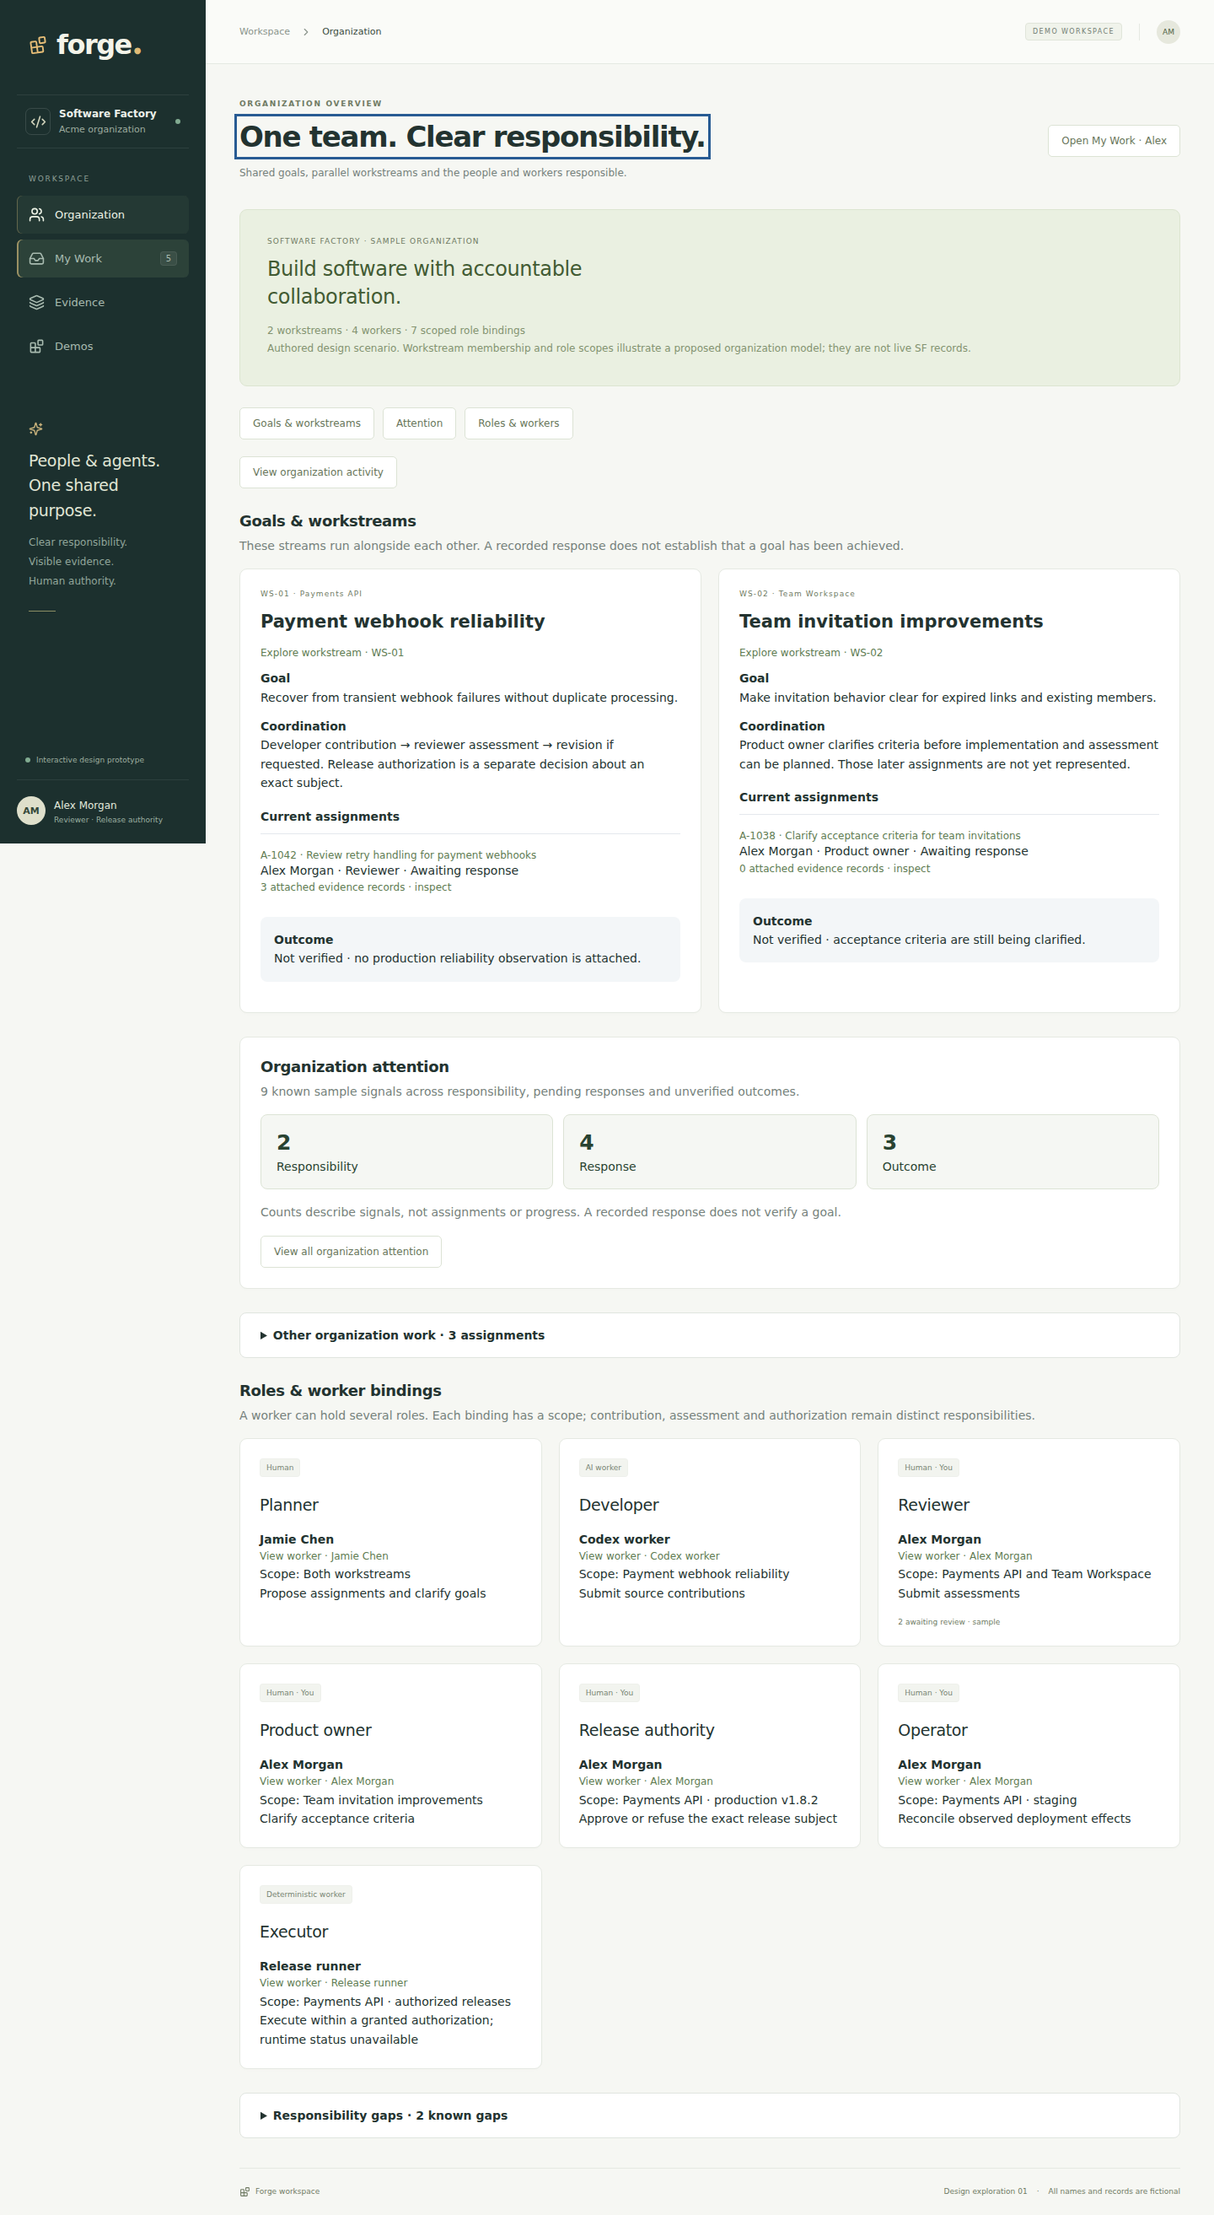
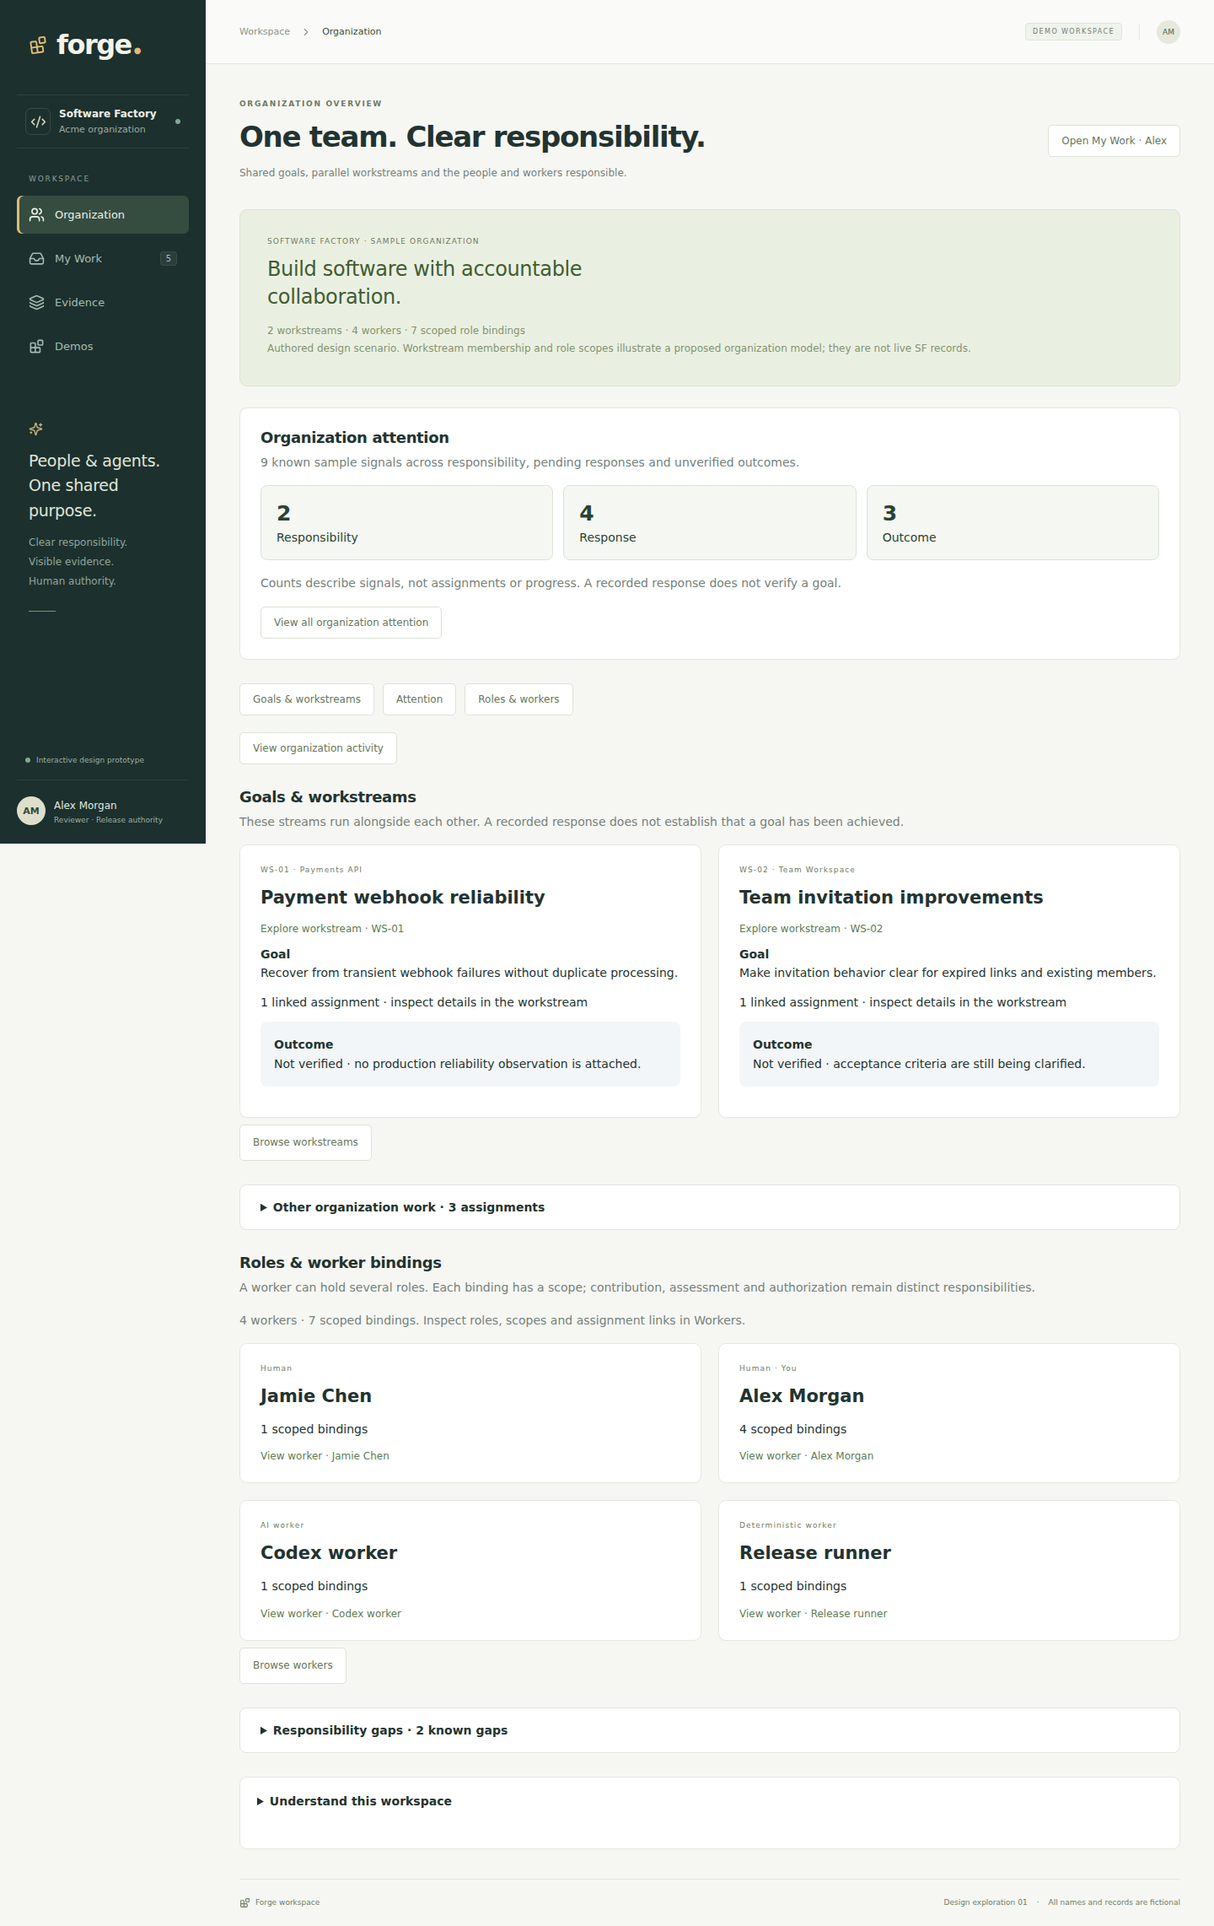
Prioritize attention and compact organization overview

diff --git a/ui-design/src/OrganizationOverview.tsx b/ui-design/src/OrganizationOverview.tsx
@@ -4,7 +4,6 @@ import { AttentionSummary } from "./AttentionSummary";
 import type { AttentionCategory } from "./data/organizationAttention";
 import { responsibilityGaps } from "./data/workerDetails";
 import { assignments } from "./data/assignments";
-import { evidenceFor } from "./data/evidence";
 import {
   roleBindings,
   workers,
@@ -62,8 +61,8 @@ export function OrganizationOverview({
           </span>
           <h2>Build software with accountable collaboration.</h2>
           <p>
-            2 workstreams · {workers.length} workers · {roleBindings.length}{" "}
-            scoped role bindings
+            {workstreams.length} workstreams · {workers.length} workers ·{" "}
+            {roleBindings.length} scoped role bindings
           </p>
           <p>
             Authored design scenario. Workstream membership and role scopes
@@ -72,7 +71,11 @@ export function OrganizationOverview({
           </p>
         </div>
       </div>
-      <WorkspaceGuide />
+      <AttentionSummary
+        completed={completed}
+        readiness={readiness}
+        onOpen={onAttention}
+      />
       <nav className="organization-sections" aria-label="Organization sections">
         {[
           ["org-goals", "Goals & workstreams"],
@@ -93,12 +96,6 @@ export function OrganizationOverview({
         ))}
       </nav>
       <p className="org-overview-section">
-        <button className="button secondary" onClick={onWorkersDirectory}>
-          Browse workers
-        </button>{" "}
-        <button className="button secondary" onClick={onDirectory}>
-          Browse workstreams
-        </button>{" "}
         <button className="button secondary" onClick={onActivity}>
           View organization activity
         </button>
@@ -137,38 +134,9 @@ export function OrganizationOverview({
                 {stream.goal}
               </p>
               <p>
-                <strong>Coordination</strong>
-                <br />
-                {stream.coordination}
+                {stream.assignmentIds.length} linked assignment · inspect
+                details in the workstream
               </p>
-              <h4>Current assignments</h4>
-              {stream.assignmentIds.map((id) => {
-                const assignment = assignments.find((a) => a.id === id);
-                if (!assignment) return null;
-                const evidenceCount = evidenceFor(id).length;
-                return (
-                  <div className="org-stream-assignment" key={id}>
-                    <button
-                      className="text-link"
-                      onClick={() => onOpen(assignment)}
-                    >
-                      {id} · {assignment.title}
-                    </button>
-                    <p>
-                      {assignment.owner} · {assignment.role} ·{" "}
-                      {completed[id]
-                        ? "Local response recorded"
-                        : "Awaiting response"}
-                    </p>
-                    <button
-                      className="text-link"
-                      onClick={() => onOpen(assignment, "Evidence")}
-                    >
-                      {evidenceCount} attached evidence records · inspect
-                    </button>
-                  </div>
-                );
-              })}
               <p className="org-outcome">
                 <strong>Outcome</strong>
                 <br />
@@ -177,12 +145,12 @@ export function OrganizationOverview({
             </article>
           ))}
         </div>
+        <p>
+          <button className="button secondary" onClick={onDirectory}>
+            Browse workstreams
+          </button>
+        </p>
       </section>
-      <AttentionSummary
-        completed={completed}
-        readiness={readiness}
-        onOpen={onAttention}
-      />
       <details className="organization-disclosure org-overview-section">
         <summary>Other organization work · 3 assignments</summary>
         <section
@@ -232,41 +200,38 @@ export function OrganizationOverview({
           contribution, assessment and authorization remain distinct
           responsibilities.
         </p>
-        <div className="role-grid">
-          {roleBindings.map((binding) => {
-            const worker = workers.find((w) => w.id === binding.workerId)!;
-            return (
-              <article
-                className="panel role-card"
-                key={`${binding.workerId}-${binding.role}`}
-              >
-                <span className="badge neutral">{worker.type}</span>
-                <h2>{binding.role}</h2>
-                <strong>{worker.name}</strong>
-                <p>
-                  <button
-                    className="text-link"
-                    onClick={() => onWorker(worker.id)}
-                  >
-                    View worker · {worker.name}
-                  </button>
-                </p>
-                <p>Scope: {binding.scope}</p>
-                <p>{binding.permission}</p>
-                {binding.role === "Reviewer" && (
-                  <span className="role-count">
-                    {
-                      assignments.filter(
-                        (a) => a.kind === "Assessment" && !completed[a.id],
-                      ).length
-                    }{" "}
-                    awaiting review · sample
-                  </span>
-                )}
-              </article>
-            );
-          })}
+        <p>
+          {workers.length} workers · {roleBindings.length} scoped bindings.
+          Inspect roles, scopes and assignment links in Workers.
+        </p>
+        <div className="org-stream-grid overview-workers">
+          {workers.map((worker) => (
+            <article
+              className="panel org-stream"
+              key={worker.id}
+              aria-label={worker.name}
+            >
+              <span className="section-label">{worker.type}</span>
+              <h3>{worker.name}</h3>
+              <p>
+                {
+                  roleBindings.filter(
+                    (binding) => binding.workerId === worker.id,
+                  ).length
+                }{" "}
+                scoped bindings
+              </p>
+              <button className="text-link" onClick={() => onWorker(worker.id)}>
+                View worker · {worker.name}
+              </button>
+            </article>
+          ))}
         </div>
+        <p>
+          <button className="button secondary" onClick={onWorkersDirectory}>
+            Browse workers
+          </button>
+        </p>
       </section>
       <details className="organization-disclosure org-overview-section">
         <summary>Responsibility gaps · 2 known gaps</summary>
@@ -304,6 +269,7 @@ export function OrganizationOverview({
           ))}
         </section>
       </details>
+      <WorkspaceGuide />
     </>
   );
 }

diff --git a/ui-design/tests/workspace.spec.ts b/ui-design/tests/workspace.spec.ts
@@ -1824,20 +1824,33 @@ test("Organization is the default entry with scoped workers and independent goal
     name: "Organization workstreams",
   });
   await expect(streams.getByRole("article")).toHaveCount(2);
+  expect(
+    await page.evaluate(() => {
+      const attention = document.getElementById("org-attention")!;
+      const goals = document.getElementById("org-goals")!;
+      return Boolean(
+        attention.compareDocumentPosition(goals) &
+        Node.DOCUMENT_POSITION_FOLLOWING,
+      );
+    }),
+  ).toBe(true);
+  await expect(
+    streams.getByText("Current assignments", { exact: true }),
+  ).toHaveCount(0);
   await expect(
     page
       .getByRole("region", { name: "Roles and worker bindings" })
       .getByRole("article"),
-  ).toHaveCount(7);
+  ).toHaveCount(4);
   const payment = page.getByRole("article", {
     name: "Payment webhook reliability",
     exact: true,
   });
   await expect(payment).toContainText("Not verified");
   await payment
-    .getByRole("button", { name: "3 attached evidence records · inspect" })
+    .getByRole("button", { name: "Explore workstream · WS-01" })
     .click();
-  await expect(page).toHaveURL(/assignments\/A-1042\/evidence/);
+  await expect(page).toHaveURL(/workstreams\/WS-01/);
   await page.goBack();
   await expect(streams).toBeVisible();
   await page.getByRole("button", { name: "Open My Work · Alex" }).click();

diff --git a/ui-design/DESIGN.md b/ui-design/DESIGN.md
@@ -2,7 +2,7 @@
 
 ## Product promise
 
-Know what needs you, understand the evidence, and act within your authority.
+Understand the organization, find what needs coordination, and enter personal work with clear responsibility and evidence.
 
 The primary persona is a human contributor or decision maker working alongside AI and deterministic workers. The prototype's Alex persona holds reviewer and release-authority roles on different assignments to demonstrate both experiences.
 
@@ -14,18 +14,29 @@ The primary persona is a human contributor or decision maker working alongside A
 | Assignment / Overview | What am I responsible for, with which inputs and permissions? | Submit a scoped response |
 | Assignment / Evidence | What supports this work? | Inspect an artifact |
 | Assignment / Activity | What was recorded and why? | Read the response history |
-| Organization | Who is bound to each role? | Inspect the illustrative responsibility structure |
+| Organization | What needs coordination across shared goals? | Inspect attention or open a workstream/worker |
+| Workstreams directory | Which goals need responsibility or outcome evidence? | Filter and open a workstream |
+| Workers directory | Who holds which scoped responsibilities? | Filter workers and inspect bindings/assignment links |
+| Workstream detail | How should responsibilities exchange work? | Inspect flow, assignment, handoff or outcome |
+| Organization attention/activity | What needs follow-up, and which records exist? | Inspect a signal or record |
+| Demos | How does collaboration work? | Start the guided walkthrough or independent scenarios |
 | Evidence | How do contribution, assessment, authority, and effect connect? | Inspect a record or open the release decision |
 
 ## First-use path
 
 ```mermaid
 flowchart LR
-  Inbox[My Work] --> Assignment[Assignment context]
-  Assignment --> Evidence[Inspect exact inputs and evidence]
-  Evidence --> Response[Response with required rationale]
-  Response --> Local[Demo record]
-  Local --> History[Activity and completed work]
+  Org[Organization overview] --> Attention[Coordination attention]
+  Org --> Streams[Workstream goals and directory]
+  Org --> Workers[Workers and scoped responsibility]
+  Org --> Inbox[My Work]
+  Attention --> Context[Assignment or workstream context]
+  Streams --> Context
+  Inbox --> Context
+  Context --> Evidence[Inspect inputs and evidence]
+  Evidence --> Response[Scoped response with rationale]
+  Response --> Local[Local receipt]
+  Local --> Outcome[Separate outcome evidence review]
 ```
 
 The production path must replace the demo step with a command to the Go application API, server-side identity and permission checks, governed admission, and an authoritative receipt. A pending command must not appear as an admitted decision. Approval must remain distinct from execution and confirmed external effects.
@@ -55,10 +66,14 @@ The production path must replace the demo step with a command to the Go applicat
 | Type | Local system sans-serif; restrained headings and compact supporting text |
 | Icons | Lucide line icons; icons supplement text labels |
 
-The desktop composition reserves the left edge for navigation, the main area for work, and a narrow right column for a highlighted decision and organization activity. Assignment detail uses the same right column for permission scope and response actions. On smaller screens it becomes a single-column reading order.
+Organization Overview prioritizes the attention summary immediately after shared purpose. Concise workstream cards expose goals/outcomes and link to detail. Worker summaries expose identity/type and scoped binding counts; full roles/scopes and assignment lists live in their directories/details. Native disclosures retain secondary other-work/gap context and the workspace glossary. Section shortcuts remain keyboard accessible.
+
+The desktop composition reserves the left edge for navigation and the main area for organization coordination. My Work uses a narrow right column for personal context. Assignment detail uses the same right column for permission scope and response actions. On smaller screens it becomes a single-column reading order.
 
 ## Deliberate limits and follow-up design
 
-This exploration covers the core human work loop. Production design still needs admission-pending and rejection states, revoked authority, changed inputs, missing or invalid evidence, concurrent decisions, interrupted sessions, and loss of connectivity. A real deployment also needs identity selection, role administration, audit search, and persistent accessible notifications. Those screens are not represented by inert navigation items here.
+This exploration covers an organization-first sample workspace and the human work loop. It includes bounded response-delivery/readiness previews, local proposals and allocation-plan decisions. Accepted plans await allocation: they create no assignment, binding or permission. Organization activity currently lists responses/evidence, not proposal/plan-decision events.
 
-Do not infer completed deployment, verified provenance, or server authorization from this prototype. Organization cards and older activity entries are fixed illustrations. User-submitted demo responses are the only mutable records.
+Production design still needs validated identity and effective authority, durable admission/receipts, concurrent changes, real runtime/worker data and verified external effects. A larger organization scenario remains independent rather than exercising the main workspace through a shared provider. Role administration, broader audit search and organization/persona switching need explicit data and interaction contracts.
+
+Do not infer completed deployment, verified provenance or server authorization from this prototype. Responses, proposals and plan decisions are mutable session records; refresh clears them. Main organization relationships and evidence fixtures are authored examples. The current prototype demonstrates Software Factory; general virtual organization fit needs a second domain using the same screens.

diff --git a/ui-design/ITERATIONS.md b/ui-design/ITERATIONS.md
@@ -571,3 +571,11 @@ Added a collapsed plain-language workspace guide on Organization covering entry 
 `CUSTOMER-EXPERIENCE-REVIEW.md` records changes, reviewed semantics and practical limits. This is a prototype review, not a customer study or live-provider validation. The agreed five-item improvement list is complete. Added a guide preview/capture and refreshed allocation review preview.
 
 Validation: production build and eleven related desktop/mobile browser tests passed for terminology disclosure, empty recovery, both directories, proposal/allocation and customer tour. Three further allocation/keyboard tests passed after adding original-proposal disclosure assertions. Coverage includes native keyboard toggling, reset URL/search focus, retained proposal rationale, modal containment and existing session boundaries. Desktop guide and mobile allocation form previews were visually inspected.
+
+## 58 — Compact organization overview
+
+Attention now appears immediately after shared purpose, ahead of goal cards. Workstream summaries retain goals/outcomes and assignment counts while moving assignment/evidence inspection into existing detail views. Four worker summaries replace seven full binding cards; directory entries sit with their matching sections. Activity and keyboard section shortcuts remain, and the glossary moves below secondary disclosures. Other-work/gap details and proposal entry points remain available.
+
+Updated DESIGN.md to organization-first navigation, current screen inventory and session/production boundaries. The same 390px/1000px browser viewport measured 3,917px document height versus 5,312px in the preceding review, with no horizontal overflow. Desktop measured 2,283px. This is reduced density, not evidence of usability at live organization scale.
+
+Validation: production build and nine related browser tests passed for default entry, worker details, section focus/disclosures, attention routes, proposals, customer guide and desktop/mobile customer tours. Default-entry coverage was adapted to worker summaries/workstream navigation and adds attention-before-goals ordering assertions. Revised mobile preview was visually inspected and the overview capture refreshed.

diff --git a/ui-design/VIRTUAL-ORGANIZATION-REVIEW.md b/ui-design/VIRTUAL-ORGANIZATION-REVIEW.md
@@ -78,3 +78,9 @@ No code behavior was changed for this review. Existing tests were not rerun for 
 5. Exercise the same workspace with a non-software organization and a second personal persona.
 
 Keep runtime monitoring, live allocation, real capacity estimates and SF integration outside these frontend slices until their data contracts are available.
+
+## Follow-up: overview slice completed
+
+The overview now places attention immediately after organization purpose, replaces assignment/evidence detail in workstream cards with linked-assignment counts, and replaces seven binding cards with four worker identity summaries. Directory entries sit with their corresponding sections; the glossary moves below secondary content. Keyboard section shortcuts, other-work/gap disclosures and proposal entries remain.
+
+At the same 390px/1000px viewport, the revised overview measured 3,917px versus 5,312px before this slice (about 26% shorter), with attention now preceding goals. This remains a scrollable page, not a demonstrated large-organization solution. Shared scenarios, organization decision history and role-centered inspection remain separate follow-ups.

diff --git a/ui-design/README.md b/ui-design/README.md
@@ -215,3 +215,5 @@ Responsibility proposal → Review allocation plan previews proposed binding/ass
 Organization includes an expandable plain-language workspace guide. Directory empty states offer Show all recovery, and allocation review keeps the original proposal behind a disclosure. See [CUSTOMER-EXPERIENCE-REVIEW.md](CUSTOMER-EXPERIENCE-REVIEW.md).
 
 Current organization design assessment and next priorities: [VIRTUAL-ORGANIZATION-REVIEW.md](VIRTUAL-ORGANIZATION-REVIEW.md). The shared organization model is coherent; overview density, coordination history and a common scenario provider are the next gaps.
+
+Organization Overview now places coordination attention directly after shared purpose. Workstream cards summarize goals/outcomes; worker cards summarize identity/type/binding counts. Use the existing directories/details for assignment and scoped binding inspection. Section shortcuts and secondary disclosures remain available.
